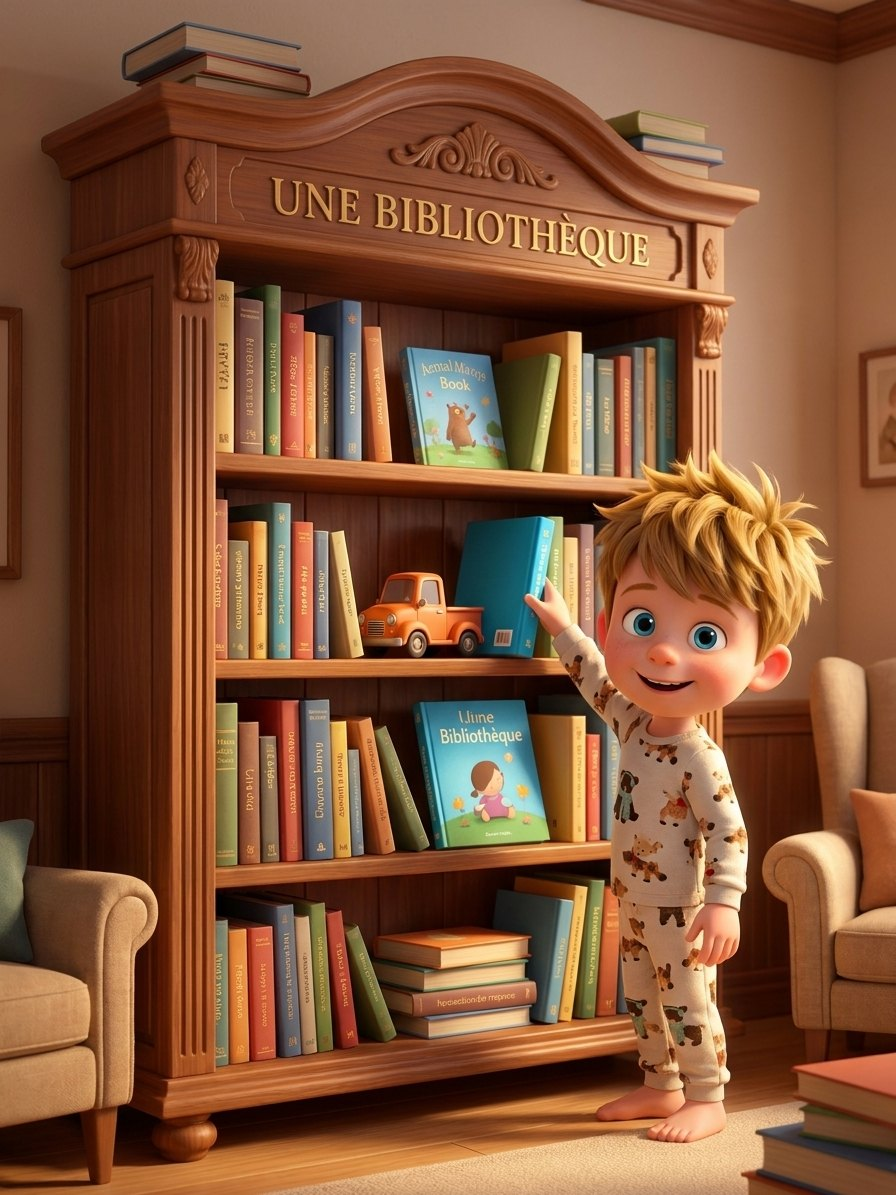
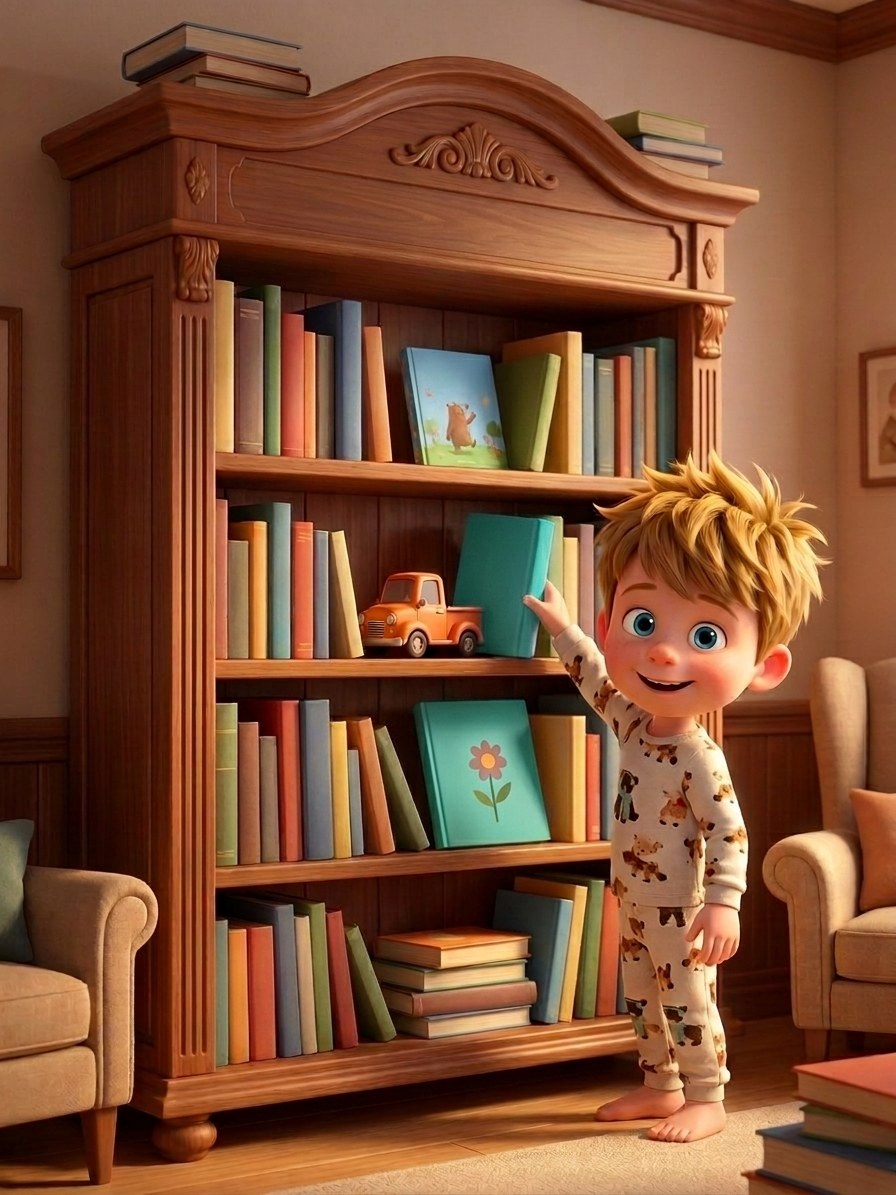
Feature: magical flip card for une bibliothèque (front: Sebi at cozy bookcase without spoilers, back: Ale in enchanted wizard library)

diff --git a/grid.html b/grid.html
@@ -692,8 +692,9 @@
           </div>
         `;
 
-        const iconHtml = verb.image
-          ? `<div class="card-hero-img-box"><img src="${verb.image}" class="card-hero-img" alt="${verb.italian}"></div>`
+        const currentImg = (isRevealed && verb.image_back) ? verb.image_back : verb.image;
+        const iconHtml = currentImg
+          ? `<div class="card-hero-img-box"><img src="${currentImg}" class="card-hero-img" alt="${verb.italian}"></div>`
           : `<div class="card-hero-img-box"><div class="card-icon">${verb.icon || '📘'}</div></div>`;
 
         // Card Body
@@ -937,11 +938,20 @@
 
       const card = document.getElementById(`card-${id}`);
       if (card) {
-        card.classList.toggle('revealed', revealedIds.has(id));
+        const isRevealed = revealedIds.has(id);
+        card.classList.toggle('revealed', isRevealed);
         const contentBox = document.getElementById(`card-content-${id}`);
-        contentBox.innerHTML = revealedIds.has(id) ? getRevealedHtml(verb) : getRiddleHtml(verb);
+        contentBox.innerHTML = isRevealed ? getRevealedHtml(verb) : getRiddleHtml(verb);
         const btn = card.querySelector('.btn-reveal-mini');
-        if (btn) btn.textContent = revealedIds.has(id) ? '🙈 Copri' : '💡 Svela';
+        if (btn) btn.textContent = isRevealed ? '🙈 Copri' : '💡 Svela';
+
+        // Dynamic image swap for dual-image cards (like Sebi on front -> Ale on reveal!)
+        if (verb.image_back) {
+          const imgEl = card.querySelector('.card-hero-img');
+          if (imgEl) {
+            imgEl.src = isRevealed ? verb.image_back : verb.image;
+          }
+        }
       }
     }
 

diff --git a/cards.html b/cards.html
@@ -1117,7 +1117,8 @@
 
       if (verb.image) {
         document.getElementById('card-icon-el').innerHTML = `<img src="${verb.image}" alt="${verb.italian}" class="card-thumb-img">`;
-        document.getElementById('card-icon-back-el').innerHTML = `<img src="${verb.image}" alt="${verb.italian}" class="card-thumb-img-small">`;
+        const backImg = verb.image_back || verb.image;
+        document.getElementById('card-icon-back-el').innerHTML = `<img src="${backImg}" alt="${verb.italian}" class="card-thumb-img-small">`;
       } else {
         document.getElementById('card-icon-el').textContent = verb.icon || '📘';
         document.getElementById('card-icon-back-el').textContent = verb.icon || '📘';
